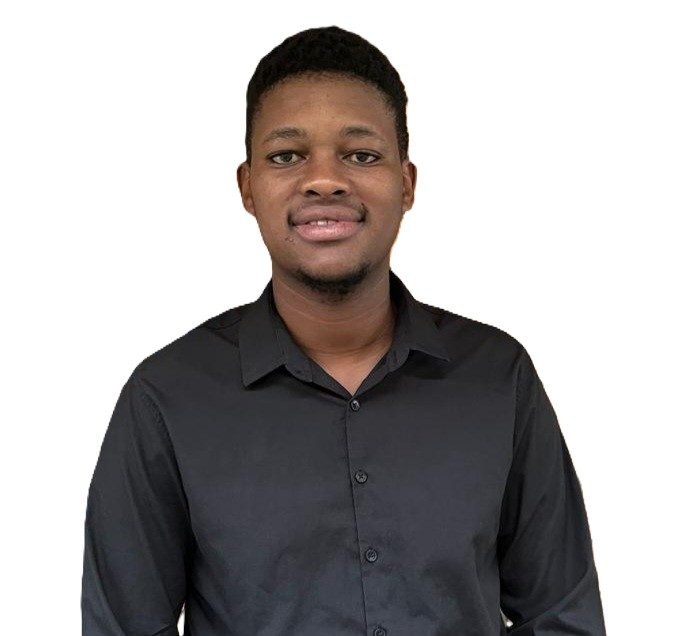
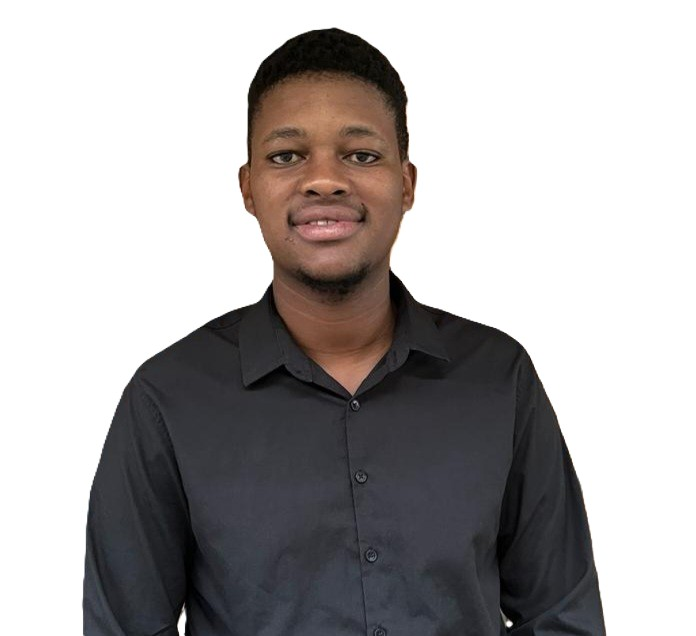
update

diff --git a/Avumile Tati Portfolio/index.html b/Avumile Tati Portfolio/index.html
@@ -37,7 +37,7 @@
             <div class="hero-content">
                 <p class="greeting">Hi all,</p>
                 <h1>I'm Avumile Tati</h1>
-                <p class="title">ICT Graduate | Web Developer | Tech Enthusiast</p>
+                <p class="title">ICT Graduate | Full Stack Developer | Tech Enthusiast</p>
                 <div class="btn-container">
                     <a href="#contact" class="btn-primary">Hire Me</a>
                     <a href="https://drive.google.com/file/d/13sC683Uc-ZKKbptjM3nQeHUAtEDCl39v/view?usp=drive_link" target="_blank" class="btn-secondary">
@@ -125,6 +125,8 @@
                         <p><i class="fas fa-database"></i> SQL/Firebase</p>
                         <p><i class="fab fa-aws"></i> AWS/Cloud</p>
                         <p><i class="fab fa-figma"></i> Figma UI/UX Design</p>
+                        <p><i class="fas fa-palette"></i> Adobe Photoshop</p>
+                        <p><i class="fas fa-vector-square"></i> Adobe Illustrator</p>
                     </div>
                 </div>
                 <div class="skills-category">
@@ -164,6 +166,26 @@
                             </div>
                         </div>
                     </div>
+                    <div class="project-card">
+                        <img src="Images/graphic1.png" alt="Brand Identity Design">
+                        <div class="project-info">
+                            <h3>Brand Identity Design</h3>
+                            <p>Creative branding and visual identity design for modern businesses</p>
+                            <div class="project-links">
+                                <a href="#" class="btn-view">View Project</a>
+                            </div>
+                        </div>
+                    </div>
+                    <div class="project-card">
+                        <img src="Images/graphic2.png" alt="Marketing Materials">
+                        <div class="project-info">
+                            <h3>Marketing Design</h3>
+                            <p>Print and digital marketing materials designed for impact</p>
+                            <div class="project-links">
+                                <a href="#" class="btn-view">View Project</a>
+                            </div>
+                        </div>
+                    </div>
                     <!-- Duplicate cards for seamless loop -->
                     <div class="project-card">
                         <img src="Images/Ddtsolutions.png" alt="Dynamic Duo Tech Solutions">
@@ -182,6 +204,26 @@
                             <p>Youth-focused web application for SRD R350 grant registration</p>
                             <div class="project-links">
                                 <a href="https://www.figma.com/proto/g6lfoZvSpSPmxNIDKIij84/Untitled?node-id=0-1&t=PAjooG4pZz9oZ6ox-1" target="_blank" class="btn-view">View Prototype</a>
+                            </div>
+                        </div>
+                    </div>
+                    <div class="project-card">
+                        <img src="Images/graphic1.png" alt="Brand Identity Design">
+                        <div class="project-info">
+                            <h3>Brand Identity Design</h3>
+                            <p>Creative branding and visual identity design for modern businesses</p>
+                            <div class="project-links">
+                                <a href="#" class="btn-view">View Project</a>
+                            </div>
+                        </div>
+                    </div>
+                    <div class="project-card">
+                        <img src="Images/graphic2.png" alt="Marketing Materials">
+                        <div class="project-info">
+                            <h3>Marketing Design</h3>
+                            <p>Print and digital marketing materials designed for impact</p>
+                            <div class="project-links">
+                                <a href="#" class="btn-view">View Project</a>
                             </div>
                         </div>
                     </div>

diff --git a/Avumile Tati Portfolio/projects.html b/Avumile Tati Portfolio/projects.html
@@ -115,6 +115,46 @@
                 </div>
             </div>
         </section>
+
+        <section class="project-details" id="graphic-design">
+            <div class="about-content">
+                <div class="project-content">
+                    <div class="project-header">
+                        <h3><i class="fas fa-palette"></i> Brand Identity & Marketing Design</h3>
+                        <div class="tech-stack">
+                            <span><i class="fas fa-palette"></i> Adobe Photoshop</span>
+                            <span><i class="fas fa-vector-square"></i> Adobe Illustrator</span>
+                            <span><i class="fas fa-pencil-ruler"></i> Brand Design</span>
+                            <span><i class="fas fa-print"></i> Print Design</span>
+                        </div>
+                    </div>
+                    <div class="project-description">
+                        <p>Creative design solutions for businesses including brand identity, marketing materials, and digital assets. Focus on creating cohesive visual experiences that communicate brand values effectively.</p>
+                        
+                        <div class="features-list">
+                            <h4>Design Services:</h4>
+                            <ul>
+                                <li><i class="fas fa-check"></i> Brand Identity Design</li>
+                                <li><i class="fas fa-check"></i> Marketing Collateral</li>
+                                <li><i class="fas fa-check"></i> Social Media Graphics</li>
+                                <li><i class="fas fa-check"></i> Print Materials</li>
+                                <li><i class="fas fa-check"></i> Digital Assets</li>
+                            </ul>
+                        </div>
+
+                        <div class="project-links">
+                            <a href="#" class="btn-primary">
+                                <i class="fas fa-images"></i> View Portfolio
+                            </a>
+                        </div>
+                    </div>
+                    <div class="project-gallery">
+                        <img src="Images/graphic1.png" alt="Brand Identity Design Examples">
+                        <img src="Images/graphic2.png" alt="Marketing Materials Examples">
+                    </div>
+                </div>
+            </div>
+        </section>
     </main>
 
     <footer class="footer">

diff --git a/Avumile Tati Portfolio/styles.css b/Avumile Tati Portfolio/styles.css
@@ -1277,7 +1277,7 @@ section {
         transform: translateX(0);
     }
     100% {
-        transform: translateX(calc(-350px * 3 - 6rem)); /* Adjust based on 3 cards */
+        transform: translateX(calc(-350px * 5 - 10rem)); /* Updated for more cards */
     }
 }
 
